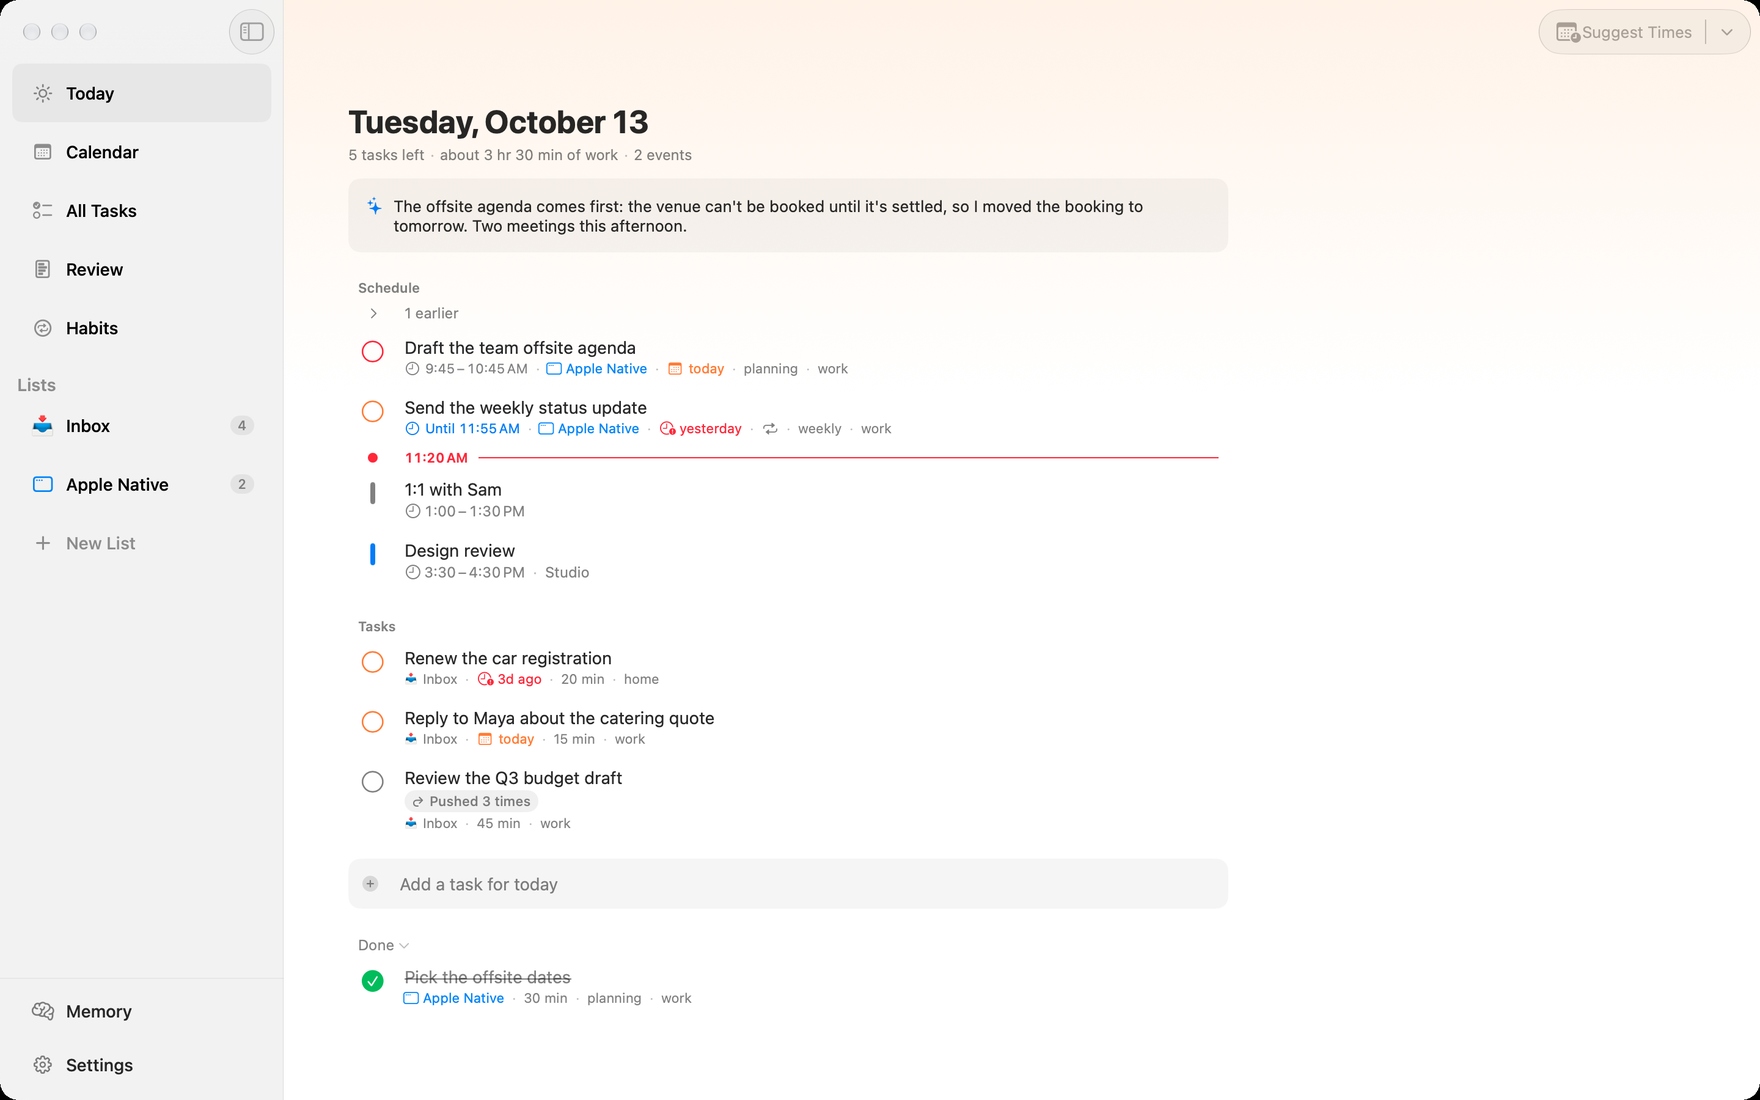
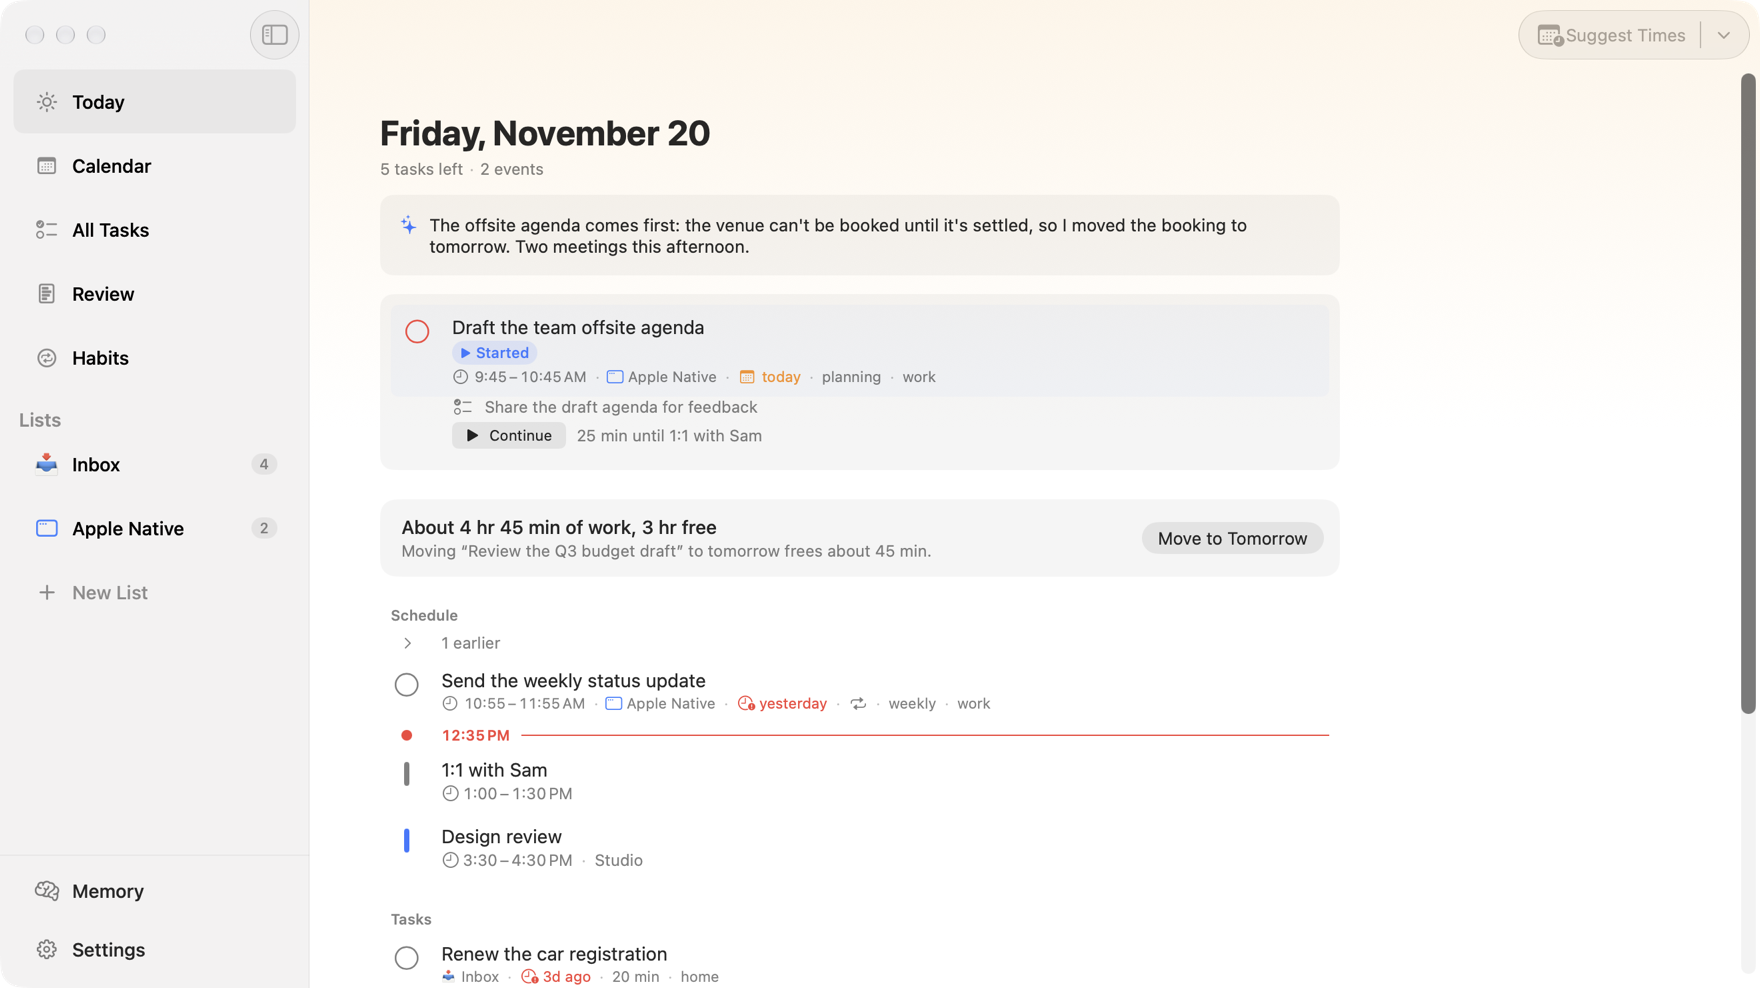
Show the return-to-work workflow and record TestFlight 147

diff --git a/README.md b/README.md
@@ -15,9 +15,9 @@
 
 <br>
 
-<img src="docs/images/mac-today.png" alt="Lorvex on the Mac: Today, with the briefing the user's assistant wrote, the day's schedule, and its tasks" width="880">
+<img src="docs/images/mac-today.png" alt="Today on Mac showing a task in progress, its next checklist item and 25 minutes until the next meeting" width="880">
 
-<br><br>
+<br><sub>Mac Today in TestFlight 147</sub><br><br>
 
 <table>
   <tr>
@@ -37,8 +37,8 @@
 ---
 
 Ask your assistant to fit a writing session around your meetings. Open Today
-to see the task alongside your calendar. If the afternoon gets away from you,
-use Daily Review to pick another day. Your assistant sees the revised plan
+after a meeting to pick up the next step on your checklist. If the afternoon
+gets away from you, use Daily Review to pick another day. Your assistant sees the revised plan
 the next time it reads Lorvex.
 
 The Mac app gives a connected assistant 120 tools through the Model Context
@@ -110,13 +110,12 @@ is always on the same releases page.
 
 ### Apple app (macOS)
 
-Requires Xcode 26 or newer (Swift 6 toolchain); the app targets macOS 26, iOS 26, and watchOS 26.
+Use Xcode 26.3 or newer for development and Xcode 27.x for release archives.
+The app targets macOS 26, iOS 26, and watchOS 26.
 
 ```bash
 cd apps/apple
-swift build              # build all targets
-swift test               # app-level test suite
-(cd core && swift test)  # pure-Swift core suite
+./script/verify_swift.sh --core   # build, compile string catalogs, run app and core tests
 ./script/build_and_run.sh --verify   # build, verify, and launch the macOS app
 ```
 
@@ -174,12 +173,10 @@ Full client-by-client instructions (Claude Desktop, Claude Code, and others):
 
 ## Status
 
-Pre-release. The Apple app is feature-complete and in TestFlight, and a
-notarized Mac build is on the
-[releases page](https://github.com/boyugou/lorvex/releases/latest); the data,
-schema, sync, and backup contracts are finalized and gated by
-repository verifiers (`apps/apple/script/verify_all.sh`). See
-[`ROADMAP.md`](ROADMAP.md).
+Mac and iOS updates reach internal testers through TestFlight. Each
+[release record](docs/releases) lists what changed and which builds are
+available. The [public Mac download](https://github.com/boyugou/lorvex/releases/latest)
+is signed and notarized. See the [roadmap](ROADMAP.md) for ongoing work.
 
 ## Privacy
 

diff --git a/docs/releases/1.0.0-147.md b/docs/releases/1.0.0-147.md
@@ -1,0 +1,35 @@
+# Lorvex 1.0.0 (147)
+
+Released to internal TestFlight on 2026-11-20 from [source commit 0e208c27](https://github.com/boyugou/lorvex/commit/0e208c2727c907ca05813c2c682feb998bead165).
+
+## Returning to work on Mac
+
+Open Today after a meeting. A task you have already started offers Continue
+even on a day without time slots. Continue reopens its notes and checklist.
+The row shows the first unfinished checklist item and the time until your
+next calendar event. A task scheduled for the current time offers Start
+when the calendar permits.
+The featured task appears once and leads keyboard navigation.
+
+If the next scheduled task conflicts with an appointment, its row stays in
+the schedule, names the event and opens task details. During a calendar
+appointment, Today waits before bringing work back to the top.
+
+## Validation
+
+English and Simplified Chinese native Mac previews exercised Start,
+closing the inspector, reading the first unfinished checklist item, and
+using Continue to reopen the task. The narrow Chinese layout was checked
+in dark appearance, along with a right-to-left Arabic preview. Local app tests covered returning at the exact end of a
+meeting, blocked work, days without time slots, calendar conflicts, stale
+actions, and the repeated hour when daylight saving time ends. The full
+app suite, build metadata tests, static gates, and localized argument checks
+passed.
+
+## Distribution
+
+App Store Connect reported **VALID** and **IN_BETA_TESTING** for iOS and
+macOS. Both builds have access through their existing internal tester groups
+and expire on **2027-02-18**. The English and Simplified Chinese test notes
+were verified on each platform. The Mac notes describe returning to work,
+and the mobile notes cover daily review and the synced task state.

diff --git a/apps/apple/docs/release.md b/apps/apple/docs/release.md
@@ -449,11 +449,11 @@ for every build would bury the ones people choose between.
 
 Check these at the start of a maintenance session. Dates are absolute.
 
-- **TestFlight builds expire 90 days after upload.** Build 146 went up on
+- **TestFlight builds expire 90 days after upload.** Build 147 went up on
   2026-11-20 on iOS and macOS, and both are available to internal testers. App
   Store Connect reports their expiry as 2027-02-18. Upload a fresh build by
   2027-02-04 (the steps above), even without a product change, while testers
-  still use TestFlight. See the [build 146 TestFlight record](../../../docs/releases/1.0.0-146.md)
+  still use TestFlight. See the [build 147 TestFlight record](../../../docs/releases/1.0.0-147.md)
   and the [build 145 GitHub download record](../../../docs/releases/1.0.0-145.md).
 - **Signing material.** The Apple Distribution and Mac installer certificates,
   and every iOS and Mac App Store profile that embeds them, expire on

diff --git a/ROADMAP.md b/ROADMAP.md
@@ -22,8 +22,9 @@ cross-platform Tauri line was removed from this repository on 2026-09-17.
   2. Mac Today now brings the current task and a Start or Continue action
      below the briefing. Continue opens the task's notes and checklist.
      The task shows the time until the next event. A conflicting upcoming
-     task stays in the schedule and names the calendar event. Evaluate the
-     return from a meeting during daily use, including days without time slots.
+     task stays in the schedule and names the calendar event. Available in
+     [TestFlight build 147](docs/releases/1.0.0-147.md). Evaluate the return
+     from a meeting during daily use, including days without time slots.
   3. Bring habits into the part of the day when they are useful. The Mac
      Habits board groups by cadence, while Today's main column has no habit
      check-in. Prototype morning and evening routines with user-chosen
